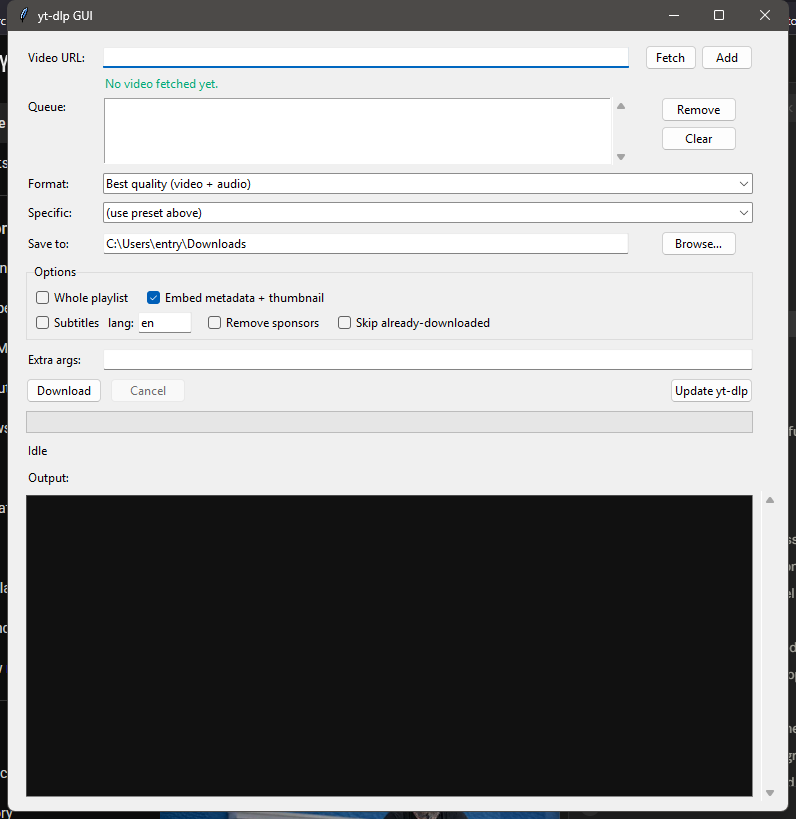
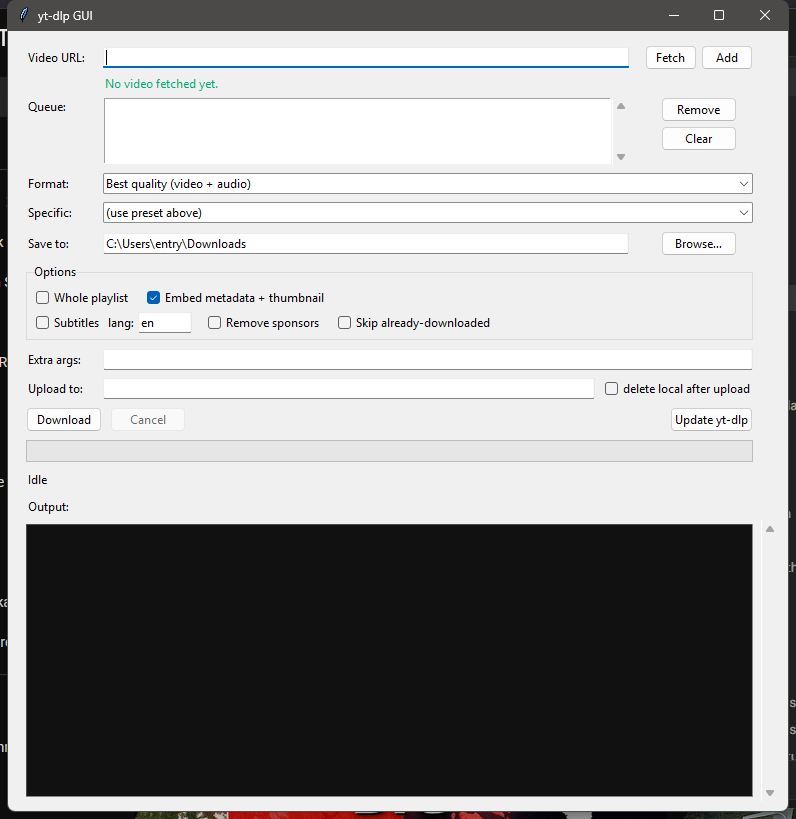
Add rclone upload option and document deno for YouTube reliability

diff --git a/ytdlp_gui.py b/ytdlp_gui.py
@@ -7,6 +7,7 @@ What it does:
     so you can pick a specific one instead of guessing.
   - Optional subtitles, SponsorBlock segment removal, and a download archive
     (skip things you've already grabbed).
+  - Optionally upload each finished file to a remote (cloud / SFTP / S3) via rclone.
   - An "Update yt-dlp" button keeps the downloader current when sites change.
   - Downloads run one at a time with a live progress bar and speed / ETA readout.
   - Your settings are remembered between runs.
@@ -100,6 +101,8 @@ class YtDlpGui:
         self.sponsorblock_var = tk.BooleanVar(value=cfg.get("sponsorblock", False))
         self.archive_var      = tk.BooleanVar(value=cfg.get("archive", False))
         self.extra_var        = tk.StringVar(value=cfg.get("extra", ""))
+        self.rclone_var       = tk.StringVar(value=cfg.get("rclone_remote", ""))
+        self.rclone_move_var  = tk.BooleanVar(value=cfg.get("rclone_move", False))
         self.status_var       = tk.StringVar(value="Idle")
 
         if self.format_var.get() not in FORMAT_PRESETS:
@@ -195,6 +198,17 @@ class YtDlpGui:
         extra_entry.grid(row=r, column=1, columnspan=2, sticky="ew", **pad)
         r += 1
 
+        # Optional: upload each finished file to a remote with rclone. The remote
+        # must already be set up via `rclone config` (e.g. "gdrive:Movies").
+        ttk.Label(frm, text="Upload to:").grid(row=r, column=0, sticky="w", **pad)
+        up = ttk.Frame(frm)
+        up.grid(row=r, column=1, columnspan=2, sticky="ew", **pad)
+        up.columnconfigure(0, weight=1)
+        ttk.Entry(up, textvariable=self.rclone_var).grid(row=0, column=0, sticky="ew")
+        ttk.Checkbutton(up, text="delete local after upload",
+                        variable=self.rclone_move_var).grid(row=0, column=1, padx=(8, 0))
+        r += 1
+
         # Action buttons
         btns = ttk.Frame(frm)
         btns.grid(row=r, column=0, columnspan=3, sticky="ew", **pad)
@@ -258,6 +272,8 @@ class YtDlpGui:
             "sponsorblock": self.sponsorblock_var.get(),
             "archive": self.archive_var.get(),
             "extra": self.extra_var.get(),
+            "rclone_remote": self.rclone_var.get(),
+            "rclone_move": self.rclone_move_var.get(),
         }
         try:
             os.makedirs(CONFIG_DIR, exist_ok=True)
@@ -383,6 +399,14 @@ class YtDlpGui:
                 cmd += shlex.split(extra)
             except ValueError:
                 cmd += extra.split()  # unbalanced quotes -> fall back to naive split
+
+        # Optional rclone upload. yt-dlp's --exec runs after the file is finished
+        # and moved to its final name; %(filepath)q is the shell-quoted path, so
+        # this becomes e.g.  rclone copy "C:\...\video.mp4" "gdrive:Movies"
+        remote = self.rclone_var.get().strip()
+        if remote:
+            verb = "move" if self.rclone_move_var.get() else "copy"
+            cmd += ["--exec", f'after_move:rclone {verb} %(filepath)q "{remote}"']
 
         out_template = os.path.join(self.dir_var.get(), "%(title)s [%(id)s].%(ext)s")
         cmd += ["-o", out_template, url]

diff --git a/README.md b/README.md
@@ -27,6 +27,13 @@ dependencies — just the standard library's `tkinter`.
 - **ffmpeg** on your PATH — needed to merge video+audio and to export MP3
   ([download](https://ffmpeg.org/download.html))
 
+Optional but recommended:
+
+- **[deno](https://deno.com/)** — yt-dlp uses a JavaScript runtime for YouTube
+  extraction; without one, some formats may be unavailable. `winget install DenoLand.Deno`
+- **[rclone](https://rclone.org/)** — only needed if you want the "Upload to" feature
+  (see below). `winget install Rclone.Rclone`
+
 On Windows, the `python` command may be intercepted by the Microsoft Store. If
 `python` doesn't work, use the `py` launcher instead (e.g. `py -m pip install -U yt-dlp`).
 
@@ -55,6 +62,23 @@ can reach features the UI doesn't have a control for:
 | `--download-sections "*10:00-10:30"` | Download just that clip |
 | `--cookies-from-browser chrome` | Use your logged-in browser session |
 | `-N 4` | Download fragments in parallel (faster) |
+
+### Uploading to a remote (rclone)
+
+The **Upload to** box lets you send each finished file straight to a cloud or
+remote storage backend instead of leaving it on your computer. It uses
+[rclone](https://rclone.org/), which supports Google Drive, Dropbox, S3, OneDrive,
+SFTP and ~70 other backends.
+
+1. Install rclone (see Requirements) and set up a remote once: `rclone config`.
+2. Put the remote and path in the **Upload to** box, e.g. `gdrive:Movies`.
+3. Tick **delete local after upload** if you don't want a local copy kept.
+
+Under the hood this adds `--exec "after_move:rclone copy <file> <remote>"` to the
+yt-dlp command, so the upload runs automatically once each download finishes.
+
+For a NAS or network share you don't even need rclone — just set the **Save to**
+folder to a UNC path like `\\TOWER\media` or a mapped drive.
 
 ## How it works
 